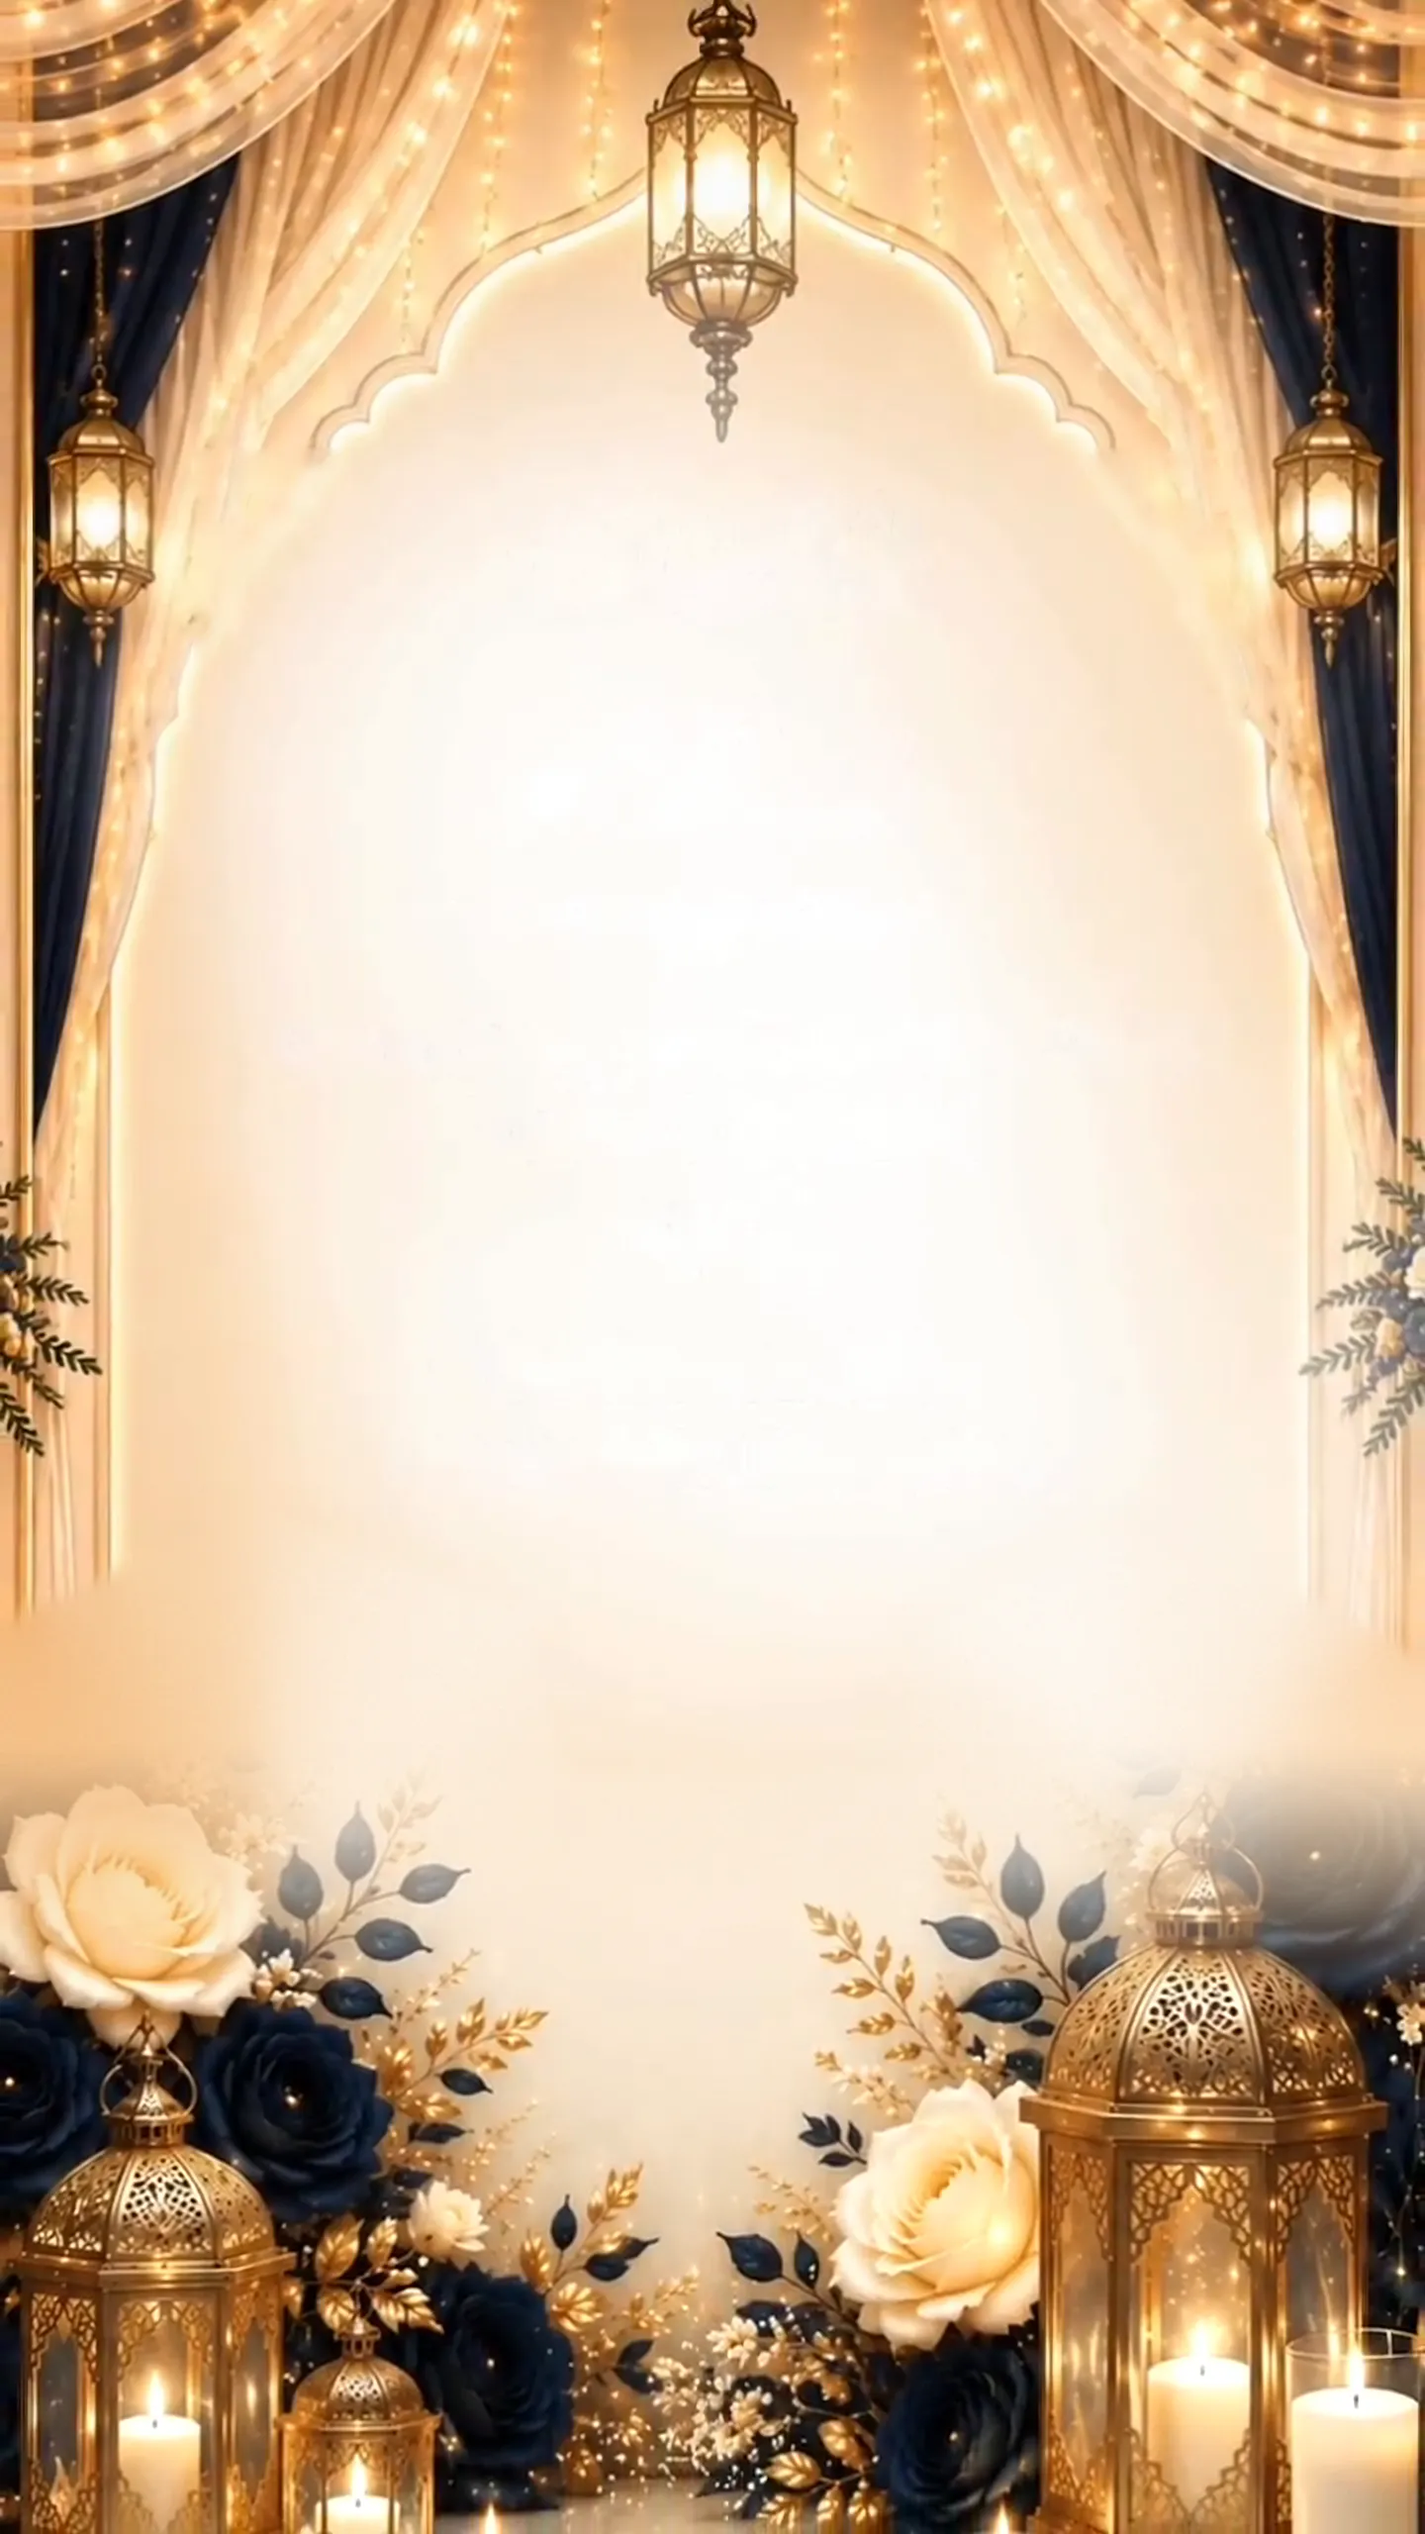
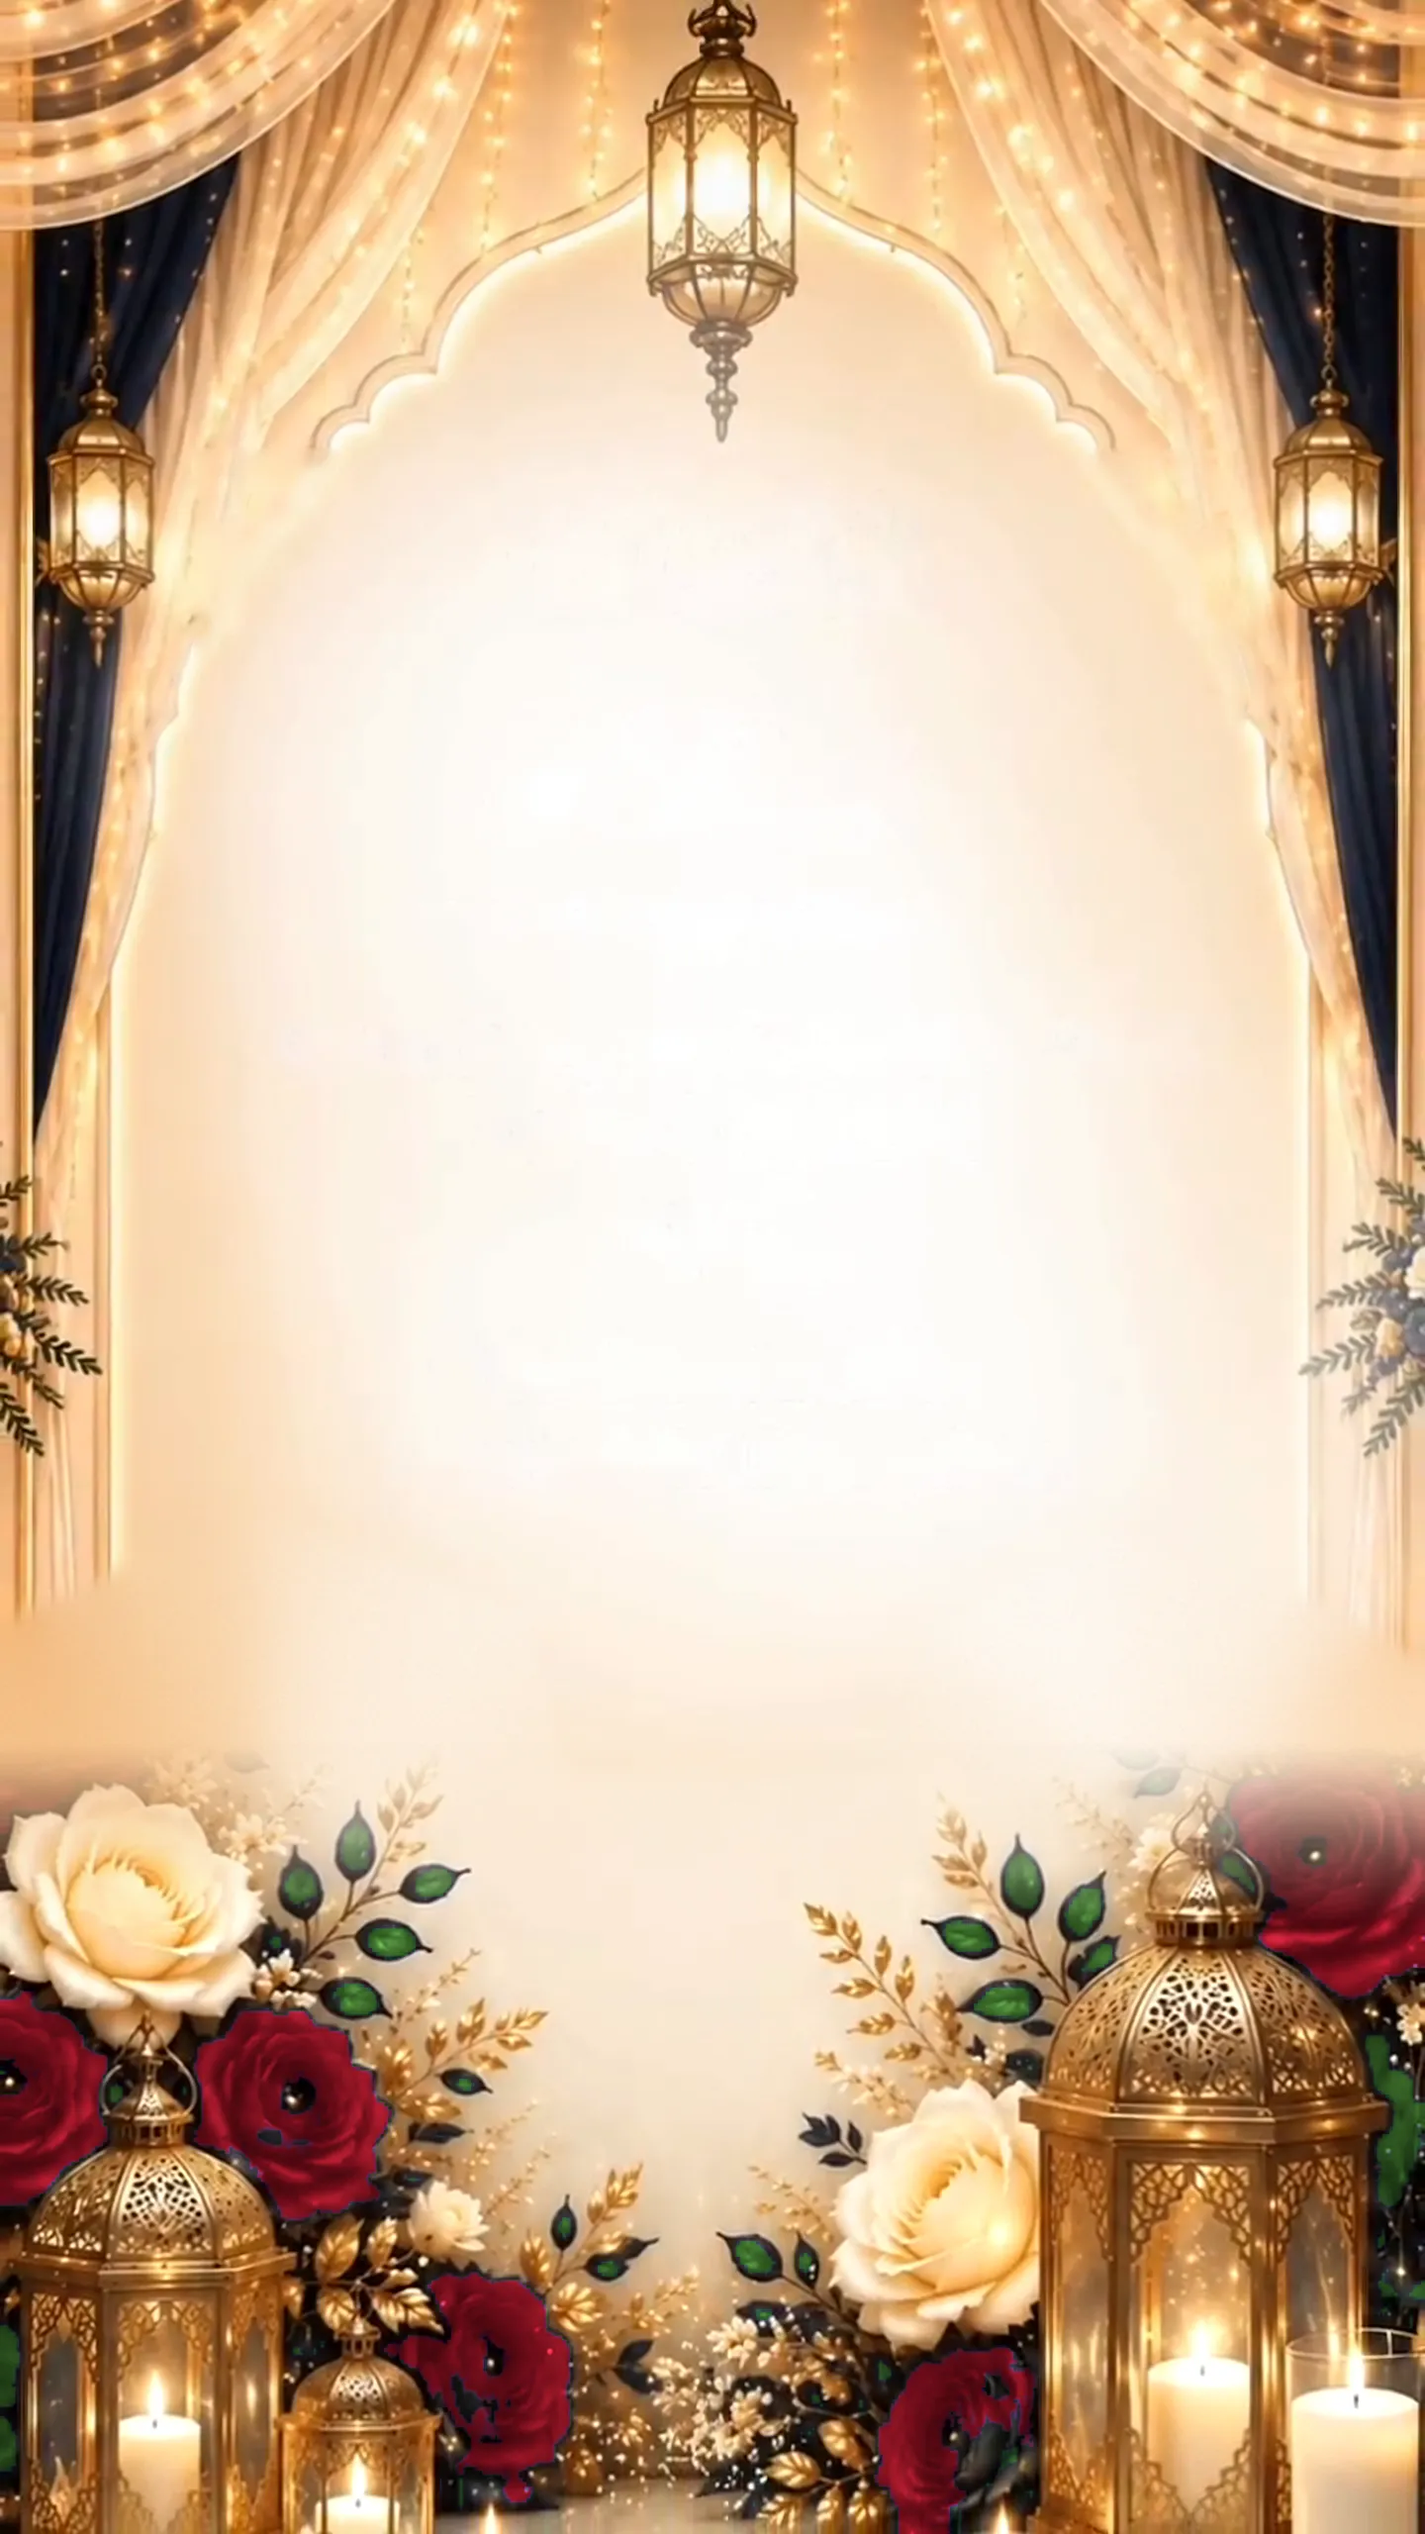
Publish site from Demo-repo 6e27e0d

diff --git a/assets/family/family.js b/assets/family/family.js
@@ -18,6 +18,9 @@
   var scenes = $$(".scene");
   var calm = window.matchMedia && window.matchMedia("(prefers-reduced-motion: reduce)").matches;
 
+  // The camera layer is laid out OVER (25%) larger than the frame and only ever scaled down:
+  // phones draw a moving layer once and then stretch it, so scaling up would blur the text.
+  var OVER = 1.25;
   /* camera: [scale at the start, scale at the end]; scenes alternate drifting in and out */
   var DRIFT = [[1, 1.06], [1.06, 1]];
   // candle flames in the floral base (percent of the picture), each given a soft flickering glow
@@ -46,9 +49,6 @@
     sc._cam = cam; sc._path = [0, [d[0], 360 * (1 - d[0]), 640 * (1 - d[0])], [d[1], 360 * (1 - d[1]), 640 * (1 - d[1])]];
     setCam(sc, 0);
   });
-  // The camera layer is laid out OVER (25%) larger than the frame and only ever scaled down:
-  // phones draw a moving layer once and then stretch it, so scaling up would blur the text.
-  var OVER = 1.25;
   function setCam(sc, p) {
     var a = sc._path[1], b = sc._path[2];
     var s = a[0] + (b[0] - a[0]) * p, x = a[1] + (b[1] - a[1]) * p, y = a[2] + (b[2] - a[2]) * p;
@@ -61,7 +61,7 @@
 
   /* ---------- falling rose petals and gold dust (one light canvas over all scenes) ---------- */
   var cv = $("#petals"), cx = cv.getContext("2d"), petals = [], dust = [], W = 0, H = 0, DPR = 1, petalRaf = 0, lastT = 0;
-  var TONES = [["#f6d5d3", "#e9aeb0"], ["#fbeee0", "#ecd3b4"], ["#f3dfa6", "#d8b25c"], ["#f8e1e4", "#dfa3ad"]];
+  var TONES = [["#e23a46", "#a8121f"], ["#f6c9c6", "#e39a9b"], ["#c8202e", "#7e0a16"], ["#fbe9e2", "#efc4bd"], ["#d72f3c", "#951422"]];
   function sizeCanvas() {
     // the canvas sits on the camera layer (between picture and text), which is 1.25x the frame
     var r = frame.getBoundingClientRect();
@@ -81,10 +81,142 @@
     for (var k = 0; k < 16; k++) petals.push(petal(false));
     for (k = 0; k < 34; k++) dust.push({ x: Math.random(), y: .08 + Math.random() * .8, r: .6 + Math.random() * 1.4, ph: Math.random() * 6.3, sp: .7 + Math.random() * 1.6 });
   }
+  /* ---------- climbing roses: a vine grows up each side of the arch, leaves unfurl, roses bloom ---------- */
+  var roseImg = new Image(); roseImg.src = "assets/family/roses.webp";   // red, deep red, blush, ivory
+  var RED = 0, DEEP = 1, BLUSH = 2, IVORY = 3;
+  // per scene: [x of the stem in % of the picture, bottom y %, top y %]
+  var VINES = { title: [11, 84, 24], verse: [10, 84, 22], parents: [12, 84, 30], heart: [9, 82, 26],
+    haldi: [10, 84, 22], nikah: [10, 84, 24], walima: [10, 84, 24], thanks: [11, 84, 22] };
+  var leafSpr = (function () {
+    var c = document.createElement("canvas"); c.width = 96; c.height = 48; var g = c.getContext("2d");
+    var gr = g.createLinearGradient(0, 0, 96, 48); gr.addColorStop(0, "#22481f"); gr.addColorStop(.55, "#3b6e2e"); gr.addColorStop(1, "#6c9a4a");
+    g.fillStyle = gr; g.beginPath(); g.moveTo(2, 24); g.bezierCurveTo(26, -2, 70, 0, 94, 24); g.bezierCurveTo(70, 48, 26, 50, 2, 24); g.fill();
+    g.strokeStyle = "rgba(220,240,190,.55)"; g.lineWidth = 2; g.beginPath(); g.moveTo(4, 24); g.quadraticCurveTo(50, 20, 92, 24); g.stroke();
+    g.strokeStyle = "rgba(220,240,190,.3)"; g.lineWidth = 1.2;
+    for (var k = 1; k < 5; k++) { var x0 = k * 18; g.beginPath(); g.moveTo(x0, 23); g.lineTo(x0 + 12, 12); g.moveTo(x0, 25); g.lineTo(x0 + 12, 36); g.stroke(); }
+    return c;
+  })();
+  function budSpr(col) {
+    var c = document.createElement("canvas"); c.width = 48; c.height = 72; var g = c.getContext("2d");
+    var gr = g.createLinearGradient(10, 0, 38, 50); gr.addColorStop(0, col[0]); gr.addColorStop(1, col[1]);
+    g.fillStyle = gr; g.beginPath(); g.moveTo(24, 4); g.bezierCurveTo(44, 22, 40, 48, 24, 52); g.bezierCurveTo(8, 48, 4, 22, 24, 4); g.fill();
+    g.fillStyle = "#3d7a30"; g.beginPath(); g.moveTo(24, 70); g.lineTo(6, 40); g.quadraticCurveTo(18, 46, 24, 56); g.quadraticCurveTo(30, 46, 42, 40); g.closePath(); g.fill();
+    return c;
+  }
+  var BUDS = [budSpr(["#e8424c", "#8a0c18"]), budSpr(["#f8d3cf", "#d98d8f"])];
+  function rnd(seed) { return function () { seed = (seed * 16807) % 2147483647; return seed / 2147483647; }; }
+  // how far in from each side the vine may reach at every height (1% bands), so roses never touch the text
+  function textRoom(sc) {
+    var cr = sc._cam.getBoundingClientRect(), L = [], R = [], k;
+    for (k = 0; k <= 100; k++) { L.push(50); R.push(50); }
+    $$(".txt > *:not(.acts), .cal", sc).forEach(function (el) {
+      var rects = [];
+      if (el.tagName === "IMG") rects = [el.getBoundingClientRect()];
+      else { var rg = document.createRange(); rg.selectNodeContents(el); rects = Array.prototype.slice.call(rg.getClientRects()); }
+      rects.forEach(function (r) {
+        if (r.width < 1) return;
+        var l = (r.left - cr.left) / cr.width * 100 - 2.5, rr = (cr.right - r.right) / cr.width * 100 - 2.5;
+        var y0 = Math.floor((r.top - cr.top) / cr.height * 100) - 1, y1 = Math.ceil((r.bottom - cr.top) / cr.height * 100) + 1;
+        for (var y = Math.max(0, y0); y <= Math.min(100, y1); y++) { L[y] = Math.min(L[y], l); R[y] = Math.min(R[y], rr); }
+      });
+    });
+    return [L, R];
+  }
+  function makeVine(cfg, side, seed, room) {
+    var r = rnd(seed), xc = cfg[0], yb = cfg[1], yt = cfg[2], lim = room[side < 0 ? 0 : 1];
+    function stem(ph, amp, n) {
+      var pts = [];
+      for (var k = 0; k <= n; k++) {
+        var u = k / n, y = yb + (yt - yb) * u;
+        var x = xc + amp * Math.sin(u * 8.5 + ph) * (1 - u * .35) + 5 * Math.pow(u, 3);   // curls in toward the arch at the top
+        x = Math.min(x, lim[Math.round(y)] - 1);
+        pts.push([side < 0 ? x : 100 - x, y]);
+      }
+      return pts;
+    }
+    var main = stem(r() * 6.28, 1.8, 80), twin = stem(r() * 6.28 + 2.2, 2.6, 80);
+    var items = [];
+    function space(u, pts) { var p = pts[Math.round(u * (pts.length - 1))], x = side < 0 ? p[0] : 100 - p[0]; return lim[Math.round(p[1])] - x; }
+    // leaves all along both stems
+    [[main, .045], [twin, .06]].forEach(function (s2, j) {
+      for (var u = .03; u < .97; u += s2[1] + r() * .02) items.push({ pts: s2[0], u: u, kind: "leaf", s: (j ? 3 : 3.8) + r() * 1.4, side: r() < .5 ? 1 : -1, a: .6 + r() * .6, ph: r() * 6 });
+    });
+    // roses: big near the base, smaller as the vine climbs, always clear of the text
+    var COL = [RED, DEEP, RED, BLUSH, RED, IVORY, DEEP, RED, BLUSH, RED];
+    var u = .04, n = 0;
+    while (u < .9) {
+      var want = (15 - 9 * u) * (.85 + r() * .3), fit = (space(u, main) - .5) / .4, s1 = Math.min(want, fit);
+      if (s1 >= 4.5) {
+        items.push({ pts: main, u: u, kind: "rose", s: s1, c: COL[n % COL.length], off: -.12, rot: (r() - .5) * 1.4, ph: r() * 6 });
+        // a smaller companion rose or bud tucked beside it
+        if (r() < .55 && s1 > 7) items.push({ pts: twin, u: Math.min(.97, u + .03), kind: "rose", s: s1 * .6, c: COL[(n + 3) % COL.length], off: -.3, rot: (r() - .5) * 1.6, ph: r() * 6 });
+        else items.push({ pts: twin, u: Math.min(.97, u + .04), kind: "bud", s: 3.2 + r(), c: r() < .7 ? 0 : 1, rot: (r() - .5), ph: r() * 6 });
+        n++;
+        u += .07 + s1 / 140 + r() * .03;
+      } else {
+        items.push({ pts: main, u: u, kind: "bud", s: 3 + r(), c: r() < .7 ? 0 : 1, rot: (r() - .5), ph: r() * 6 });
+        u += .06;
+      }
+    }
+    items.push({ pts: main, u: .95, kind: "bud", s: 3.6, c: 0, rot: .3, ph: r() * 6 }, { pts: twin, u: .985, kind: "bud", s: 3, c: 1, rot: -.4, ph: r() * 6 });
+    items.sort(function (a, b) { return (a.kind === "rose") - (b.kind === "rose") || a.u - b.u; });   // leaves under roses
+    return { stems: [main, twin], items: items, side: side };
+  }
+  var garden = null, gardenT0 = 0;
+  function plantGarden(sc, grown) {
+    var cfg = VINES[sc.getAttribute("data-bg")];
+    var room = textRoom(sc);
+    garden = cfg ? [makeVine(cfg, -1, 7 + scenes.indexOf(sc) * 13, room), makeVine(cfg, 1, 11 + scenes.indexOf(sc) * 17, room)] : null;
+    gardenT0 = performance.now() - (grown ? 99999 : 0);
+  }
+  function easeOutBack(k) { var c = 1.6; return 1 + (c + 1) * Math.pow(k - 1, 3) + c * Math.pow(k - 1, 2); }
+  function at(pts, u) {   // point and direction on a stem at fraction u
+    var f = u * (pts.length - 1), i = Math.min(pts.length - 2, Math.floor(f)), t = f - i, a = pts[i], b = pts[i + 1];
+    return [a[0] + (b[0] - a[0]) * t, a[1] + (b[1] - a[1]) * t, Math.atan2((b[1] - a[1]) * H, (b[0] - a[0]) * W)];
+  }
+  function drawGarden(t) {
+    if (!garden) return;
+    var el = (t - gardenT0) / 1000, p = calm ? 1 : Math.min(1, Math.max(0, (el - .25) / 2.6)); p = 1 - Math.pow(1 - p, 2.2);
+    var X = W / 100, Y = H / 100;
+    garden.forEach(function (v) {
+      // stems: tapering, drawn up to the growth point
+      cx.lineCap = "round";
+      v.stems.forEach(function (pts, j) {
+        // drawn in ten tapering runs (cheap enough for any phone)
+        var last = Math.max(1, Math.floor(p * (pts.length - 1))), step = 8;
+        cx.strokeStyle = j ? "#4c6d35" : "#3b5a2a";
+        for (var k0 = 0; k0 < last; k0 += step) {
+          var k1 = Math.min(last, k0 + step);
+          cx.lineWidth = ((1 - k0 / pts.length) * .55 + .22) * (j ? .7 : 1) * X;
+          cx.beginPath(); cx.moveTo(pts[k0][0] * X, pts[k0][1] * Y);
+          for (var k = k0 + 1; k <= k1; k++) cx.lineTo(pts[k][0] * X, pts[k][1] * Y);
+          cx.stroke();
+        }
+      });
+      v.items.forEach(function (it) {
+        var k = calm ? 1 : Math.min(1, (p - it.u) / .1); if (k <= 0) return;
+        var q = at(it.pts, it.u), sway = Math.sin(t / 1000 * 1.1 + it.u * 7 + (it.ph || 0)) * .05, e = easeOutBack(k);
+        cx.save(); cx.translate(q[0] * X, q[1] * Y);
+        if (it.kind === "leaf") {
+          var sz = it.s * X * e;
+          cx.rotate(q[2] + it.side * it.a + sway * 2); cx.drawImage(leafSpr, 0, -sz * .25, sz, sz * .5);
+        } else if (it.kind === "rose") {
+          var sz2 = it.s * X * e;
+          cx.translate(-v.side * it.off * it.s * X, 0); cx.rotate(it.rot + sway);
+          if (roseImg.complete && roseImg.naturalWidth) cx.drawImage(roseImg, it.c * 224, 0, 224, 224, -sz2 / 2, -sz2 / 2, sz2, sz2);
+        } else {
+          var b = BUDS[it.c], sz3 = it.s * X * e;
+          cx.rotate(q[2] + Math.PI / 2 + it.rot + sway * 1.5); cx.drawImage(b, -sz3 / 3, -sz3, sz3 * .66, sz3);
+        }
+        cx.restore();
+      });
+    });
+  }
   function drawAmbience(t) {
     var dt = Math.min(.05, (t - lastT) / 1000 || 0); lastT = t;
     cx.setTransform(DPR, 0, 0, DPR, 0, 0);
     cx.clearRect(0, 0, W, H);
+    drawGarden(t);
     dust.forEach(function (d) {
       var a = Math.max(0, Math.sin(t / 1000 * d.sp + d.ph)); a = a * a;
       if (a < .02) return;
@@ -110,9 +242,18 @@
     });
     petalRaf = requestAnimationFrame(drawAmbience);
   }
-  function startAmbience() { if (calm) return; cancelAnimationFrame(petalRaf); lastT = performance.now(); petalRaf = requestAnimationFrame(drawAmbience); }
+  function startAmbience() {
+    cancelAnimationFrame(petalRaf); lastT = performance.now();
+    if (calm) { petals = []; dust = []; drawAmbience(lastT); cancelAnimationFrame(petalRaf); return; }
+    petalRaf = requestAnimationFrame(drawAmbience);
+  }
   makeAmbience();
-  window.addEventListener("resize", sizeCanvas);
+  // before the first tap the opening scene already wears its roses
+  scenes[0]._cam.insertBefore(cv, scenes[0]._cam.querySelector(".cal, .txt"));
+  plantGarden(scenes[0], true);
+  function stillFrame() { var keep = petals; petals = []; drawAmbience(performance.now()); cancelAnimationFrame(petalRaf); petals = keep; }
+  roseImg.onload = function () { if (!playing) stillFrame(); };
+  window.addEventListener("resize", function () { sizeCanvas(); if (!playing) stillFrame(); });
 
   /* ---------- maps and calendar ---------- */
   var MAPS = {
@@ -210,7 +351,7 @@
   /* ---------- the story ---------- */
   bars.innerHTML = scenes.map(function () { return "<i><b></b></i>"; }).join("");
   var barEls = $$("i", bars);
-  var actT = null, idx = 0, timer = null, raf = 0, startAt = 0, dur = 0, playing = false, swapT = null, leaveT = null;
+  var gardenFresh = false, actT = null, idx = 0, timer = null, raf = 0, startAt = 0, dur = 0, playing = false, swapT = null, leaveT = null;
 
   function paint() {
     barEls.forEach(function (b, i) { b.classList.toggle("done", i < idx); if (i !== idx) b.firstChild.style.width = ""; });
@@ -228,6 +369,8 @@
     // petals drift between the picture and the lettering of the scene on screen
     var firstText = scenes[i]._cam.querySelector(".cal, .txt");
     scenes[i]._cam.insertBefore(cv, firstText);
+    plantGarden(scenes[i], i === 0 && !gardenFresh);
+    gardenFresh = true;
     enter(scenes[i], dur);
     // the scene's buttons appear in the bar once its details are in
     var acts = $(".acts", scenes[i]);
